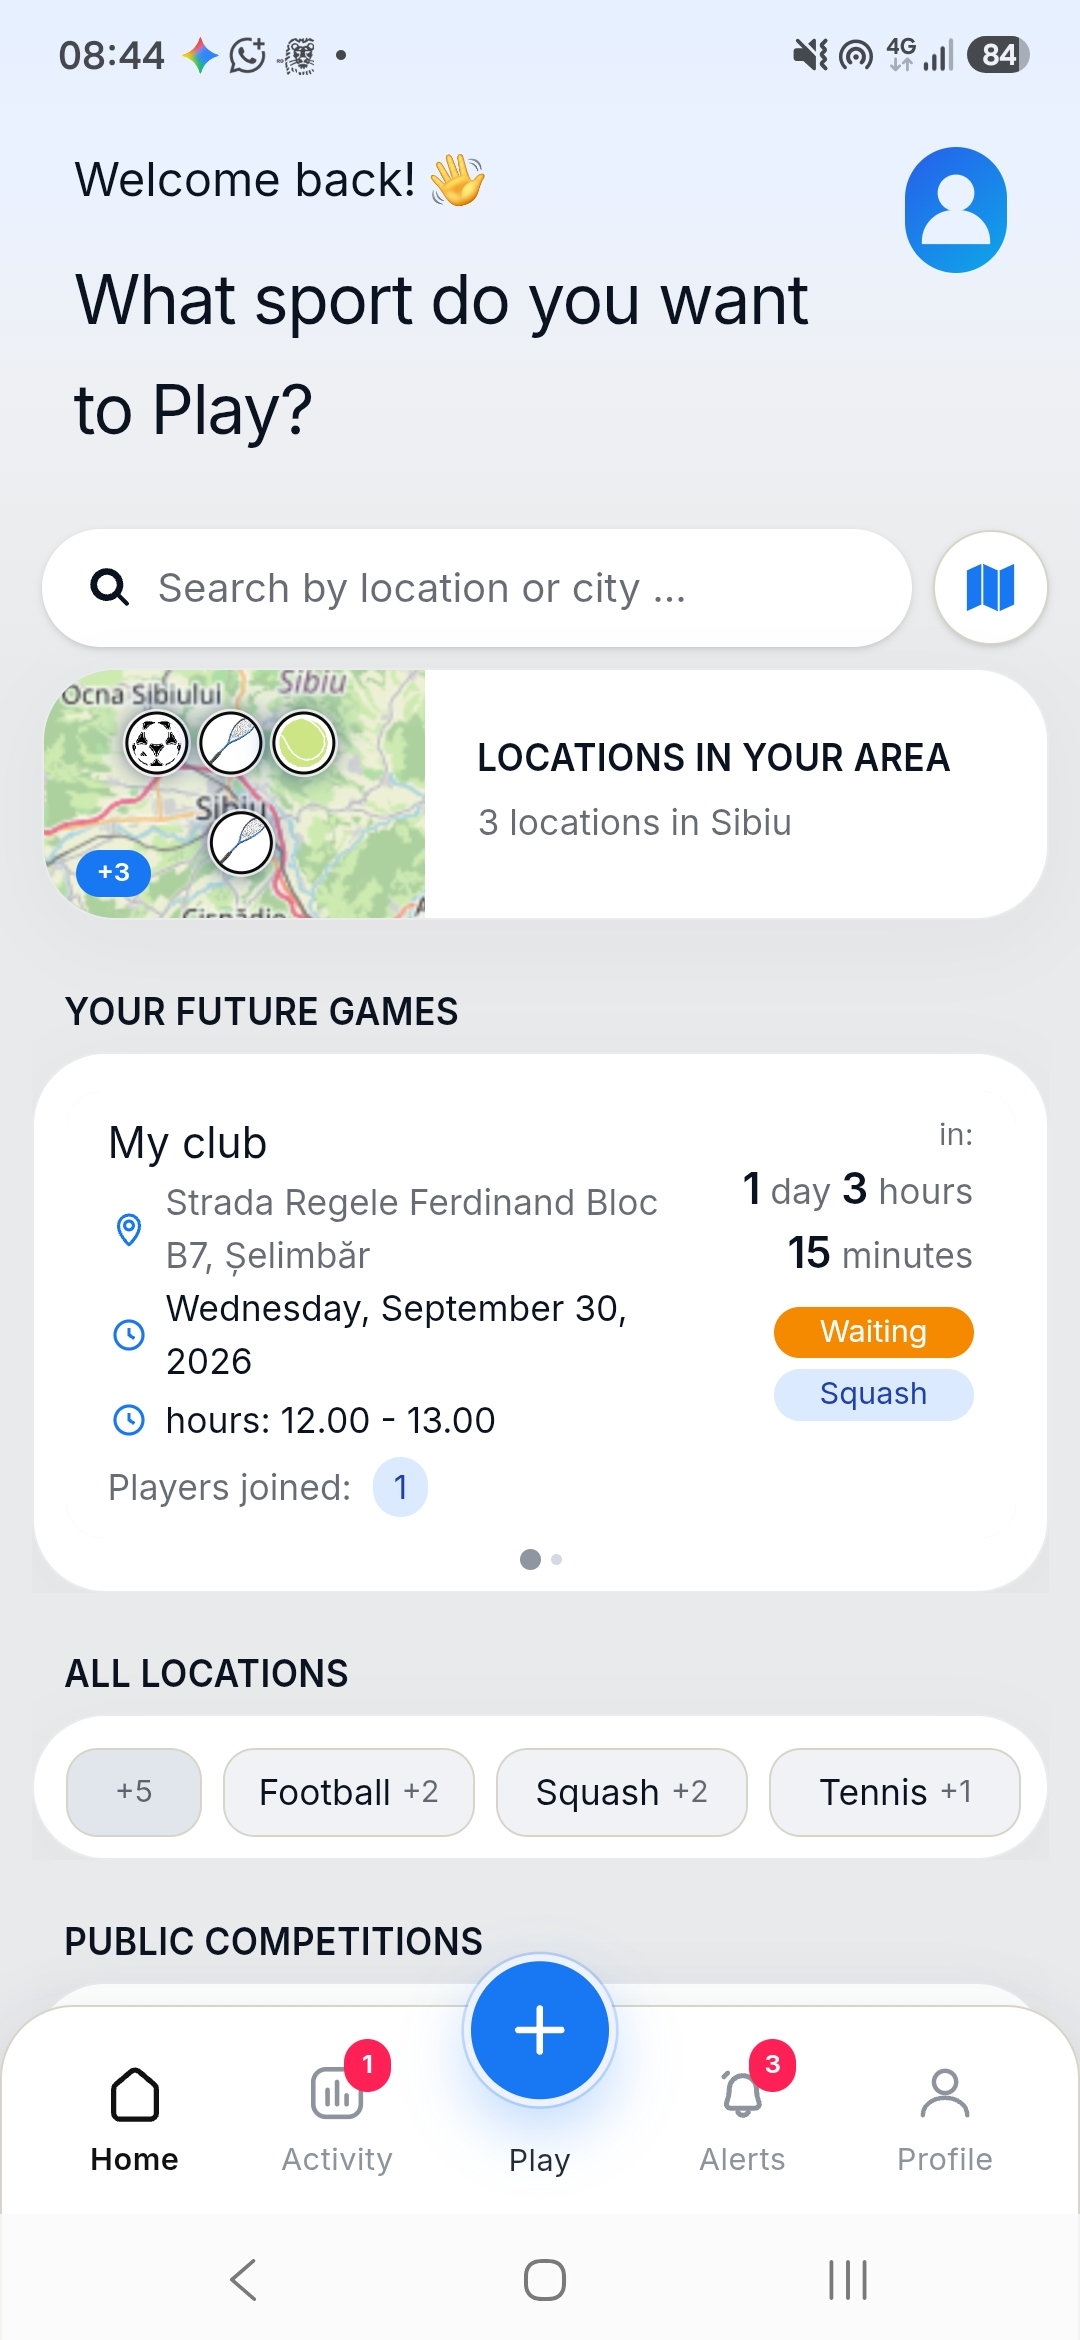
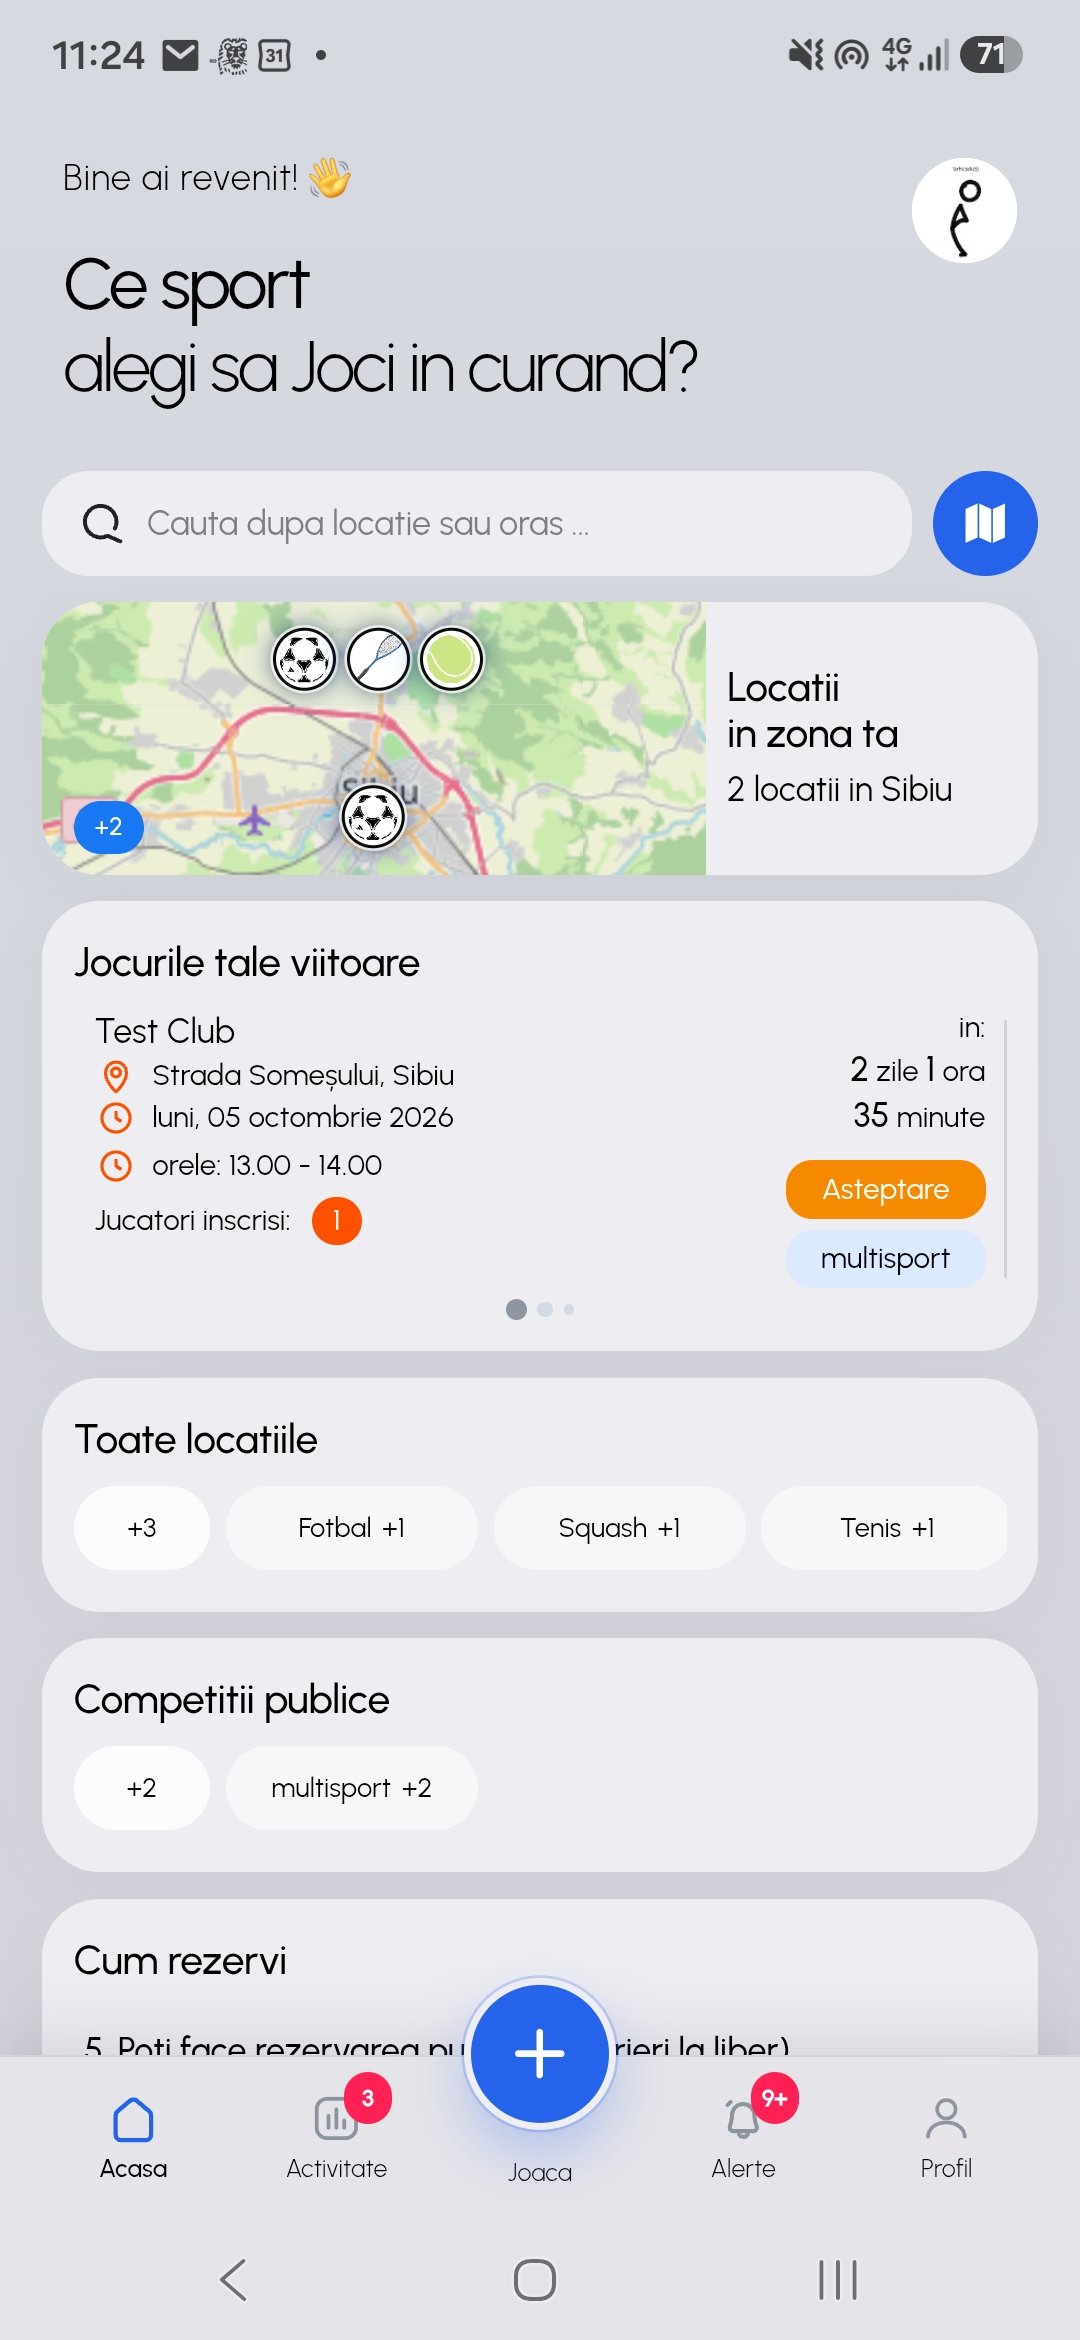
Update player showcase screenshots and extend backdrop

diff --git a/app/globals.css b/app/globals.css
@@ -2142,23 +2142,27 @@ body * {
 }
 
 /* Homepage app showcase */
+.sportme-home-backdrop {
+  background:
+    linear-gradient(132deg, transparent 0 23%, rgba(255, 255, 255, 0.38) 23% 35%, transparent 35% 67%, rgba(255, 255, 255, 0.32) 67% 79%, transparent 79%),
+    radial-gradient(ellipse at 12% 29%, rgba(219, 223, 230, 0.46) 0 12%, transparent 12.4%),
+    radial-gradient(ellipse at 88% 20%, rgba(255, 255, 255, 0.52) 0 15%, transparent 15.4%),
+    radial-gradient(circle at 84% 5%, rgba(255, 255, 255, 0.88), transparent 27%),
+    radial-gradient(circle at 4% 20%, rgba(255, 255, 255, 0.58), transparent 25%),
+    linear-gradient(145deg, #f3f4f6 0%, #eceff3 53%, #f5f6f8 100%);
+}
+
 .sportme-modern-home.app-showcase-hero {
   min-height: auto !important;
   overflow: hidden !important;
-  background:
-    radial-gradient(circle at 84% 9%, rgba(255, 255, 255, 0.88), transparent 27%),
-    radial-gradient(circle at 4% 39%, rgba(255, 255, 255, 0.58), transparent 25%),
-    linear-gradient(145deg, #f3f4f6 0%, #eceff3 53%, #f5f6f8 100%);
+  background: transparent;
 }
 
 .sportme-modern-home.app-showcase-hero::before {
   inset: 0;
   border: 0;
   border-radius: 0;
-  background:
-    linear-gradient(132deg, transparent 0 66%, rgba(255, 255, 255, 0.38) 66% 78%, transparent 78%),
-    radial-gradient(ellipse at 12% 72%, rgba(219, 223, 230, 0.46) 0 12%, transparent 12.4%),
-    radial-gradient(ellipse at 88% 48%, rgba(255, 255, 255, 0.52) 0 15%, transparent 15.4%);
+  background: none;
   box-shadow: none;
   pointer-events: none;
 }

diff --git a/app/page.tsx b/app/page.tsx
@@ -84,8 +84,10 @@ const showcaseImagePaths = [
   "/app-showcase/manager/06-notificari.jpg",
   "/app-showcase/player/01-home.jpg",
   "/app-showcase/player/02-locatii.jpg",
-  "/app-showcase/player/03-rezervare.jpg",
-  "/app-showcase/player/04-harta.jpg",
+  "/app-showcase/player/03-rezervari.jpg",
+  "/app-showcase/player/04-notificari.jpg",
+  "/app-showcase/player/05-harta.jpg",
+  "/app-showcase/player/06-profile.jpg",
 ];
 
 export default function RootPage() {
@@ -133,10 +135,7 @@ export default function RootPage() {
           }
         }
         .about-dark-section {
-          background:
-            radial-gradient(circle at 84% 10%, rgba(255, 255, 255, 0.72), rgba(255, 255, 255, 0) 28%),
-            radial-gradient(circle at 7% 42%, rgba(255, 255, 255, 0.5), rgba(255, 255, 255, 0) 26%),
-            linear-gradient(180deg, #f5f6f8 0%, #eceff3 48%, #f3f4f6 100%);
+          background: transparent;
           color: #182032;
           font-family: var(--font-urbanist), ui-sans-serif, system-ui, sans-serif;
         }
@@ -295,7 +294,7 @@ export default function RootPage() {
       `,
         }}
       />
-      <div className="relative overflow-hidden">
+      <div className="sportme-home-backdrop relative overflow-hidden">
         <AboutHero availableShowcaseImages={availableShowcaseImages} />
         <AboutDeferredLoader />
       </div>

diff --git a/app/components/home/AppShowcase.tsx b/app/components/home/AppShowcase.tsx
@@ -32,8 +32,10 @@ const showcase = {
     slides: [
       { src: "/app-showcase/player/01-home.jpg", alt: "Pagina principală SportMe Jucător" },
       { src: "/app-showcase/player/02-locatii.jpg", alt: "Locații în SportMe Jucător" },
-      { src: "/app-showcase/player/03-rezervare.jpg", alt: "Rezervare în SportMe Jucător" },
-      { src: "/app-showcase/player/04-harta.jpg", alt: "Harta locațiilor în SportMe Jucător" },
+      { src: "/app-showcase/player/03-rezervari.jpg", alt: "Rezervări în SportMe Jucător" },
+      { src: "/app-showcase/player/04-notificari.jpg", alt: "Notificări în SportMe Jucător" },
+      { src: "/app-showcase/player/05-harta.jpg", alt: "Harta locațiilor în SportMe Jucător" },
+      { src: "/app-showcase/player/06-profile.jpg", alt: "Profil în SportMe Jucător" },
     ],
   },
 } satisfies Record<ShowcaseMode, { eyebrow: Record<Language, string>; title: Record<Language, string[]>; subtitle: Record<Language, string>; cta: Record<Language, string>; slides: { src: string; alt: string }[] }>;
